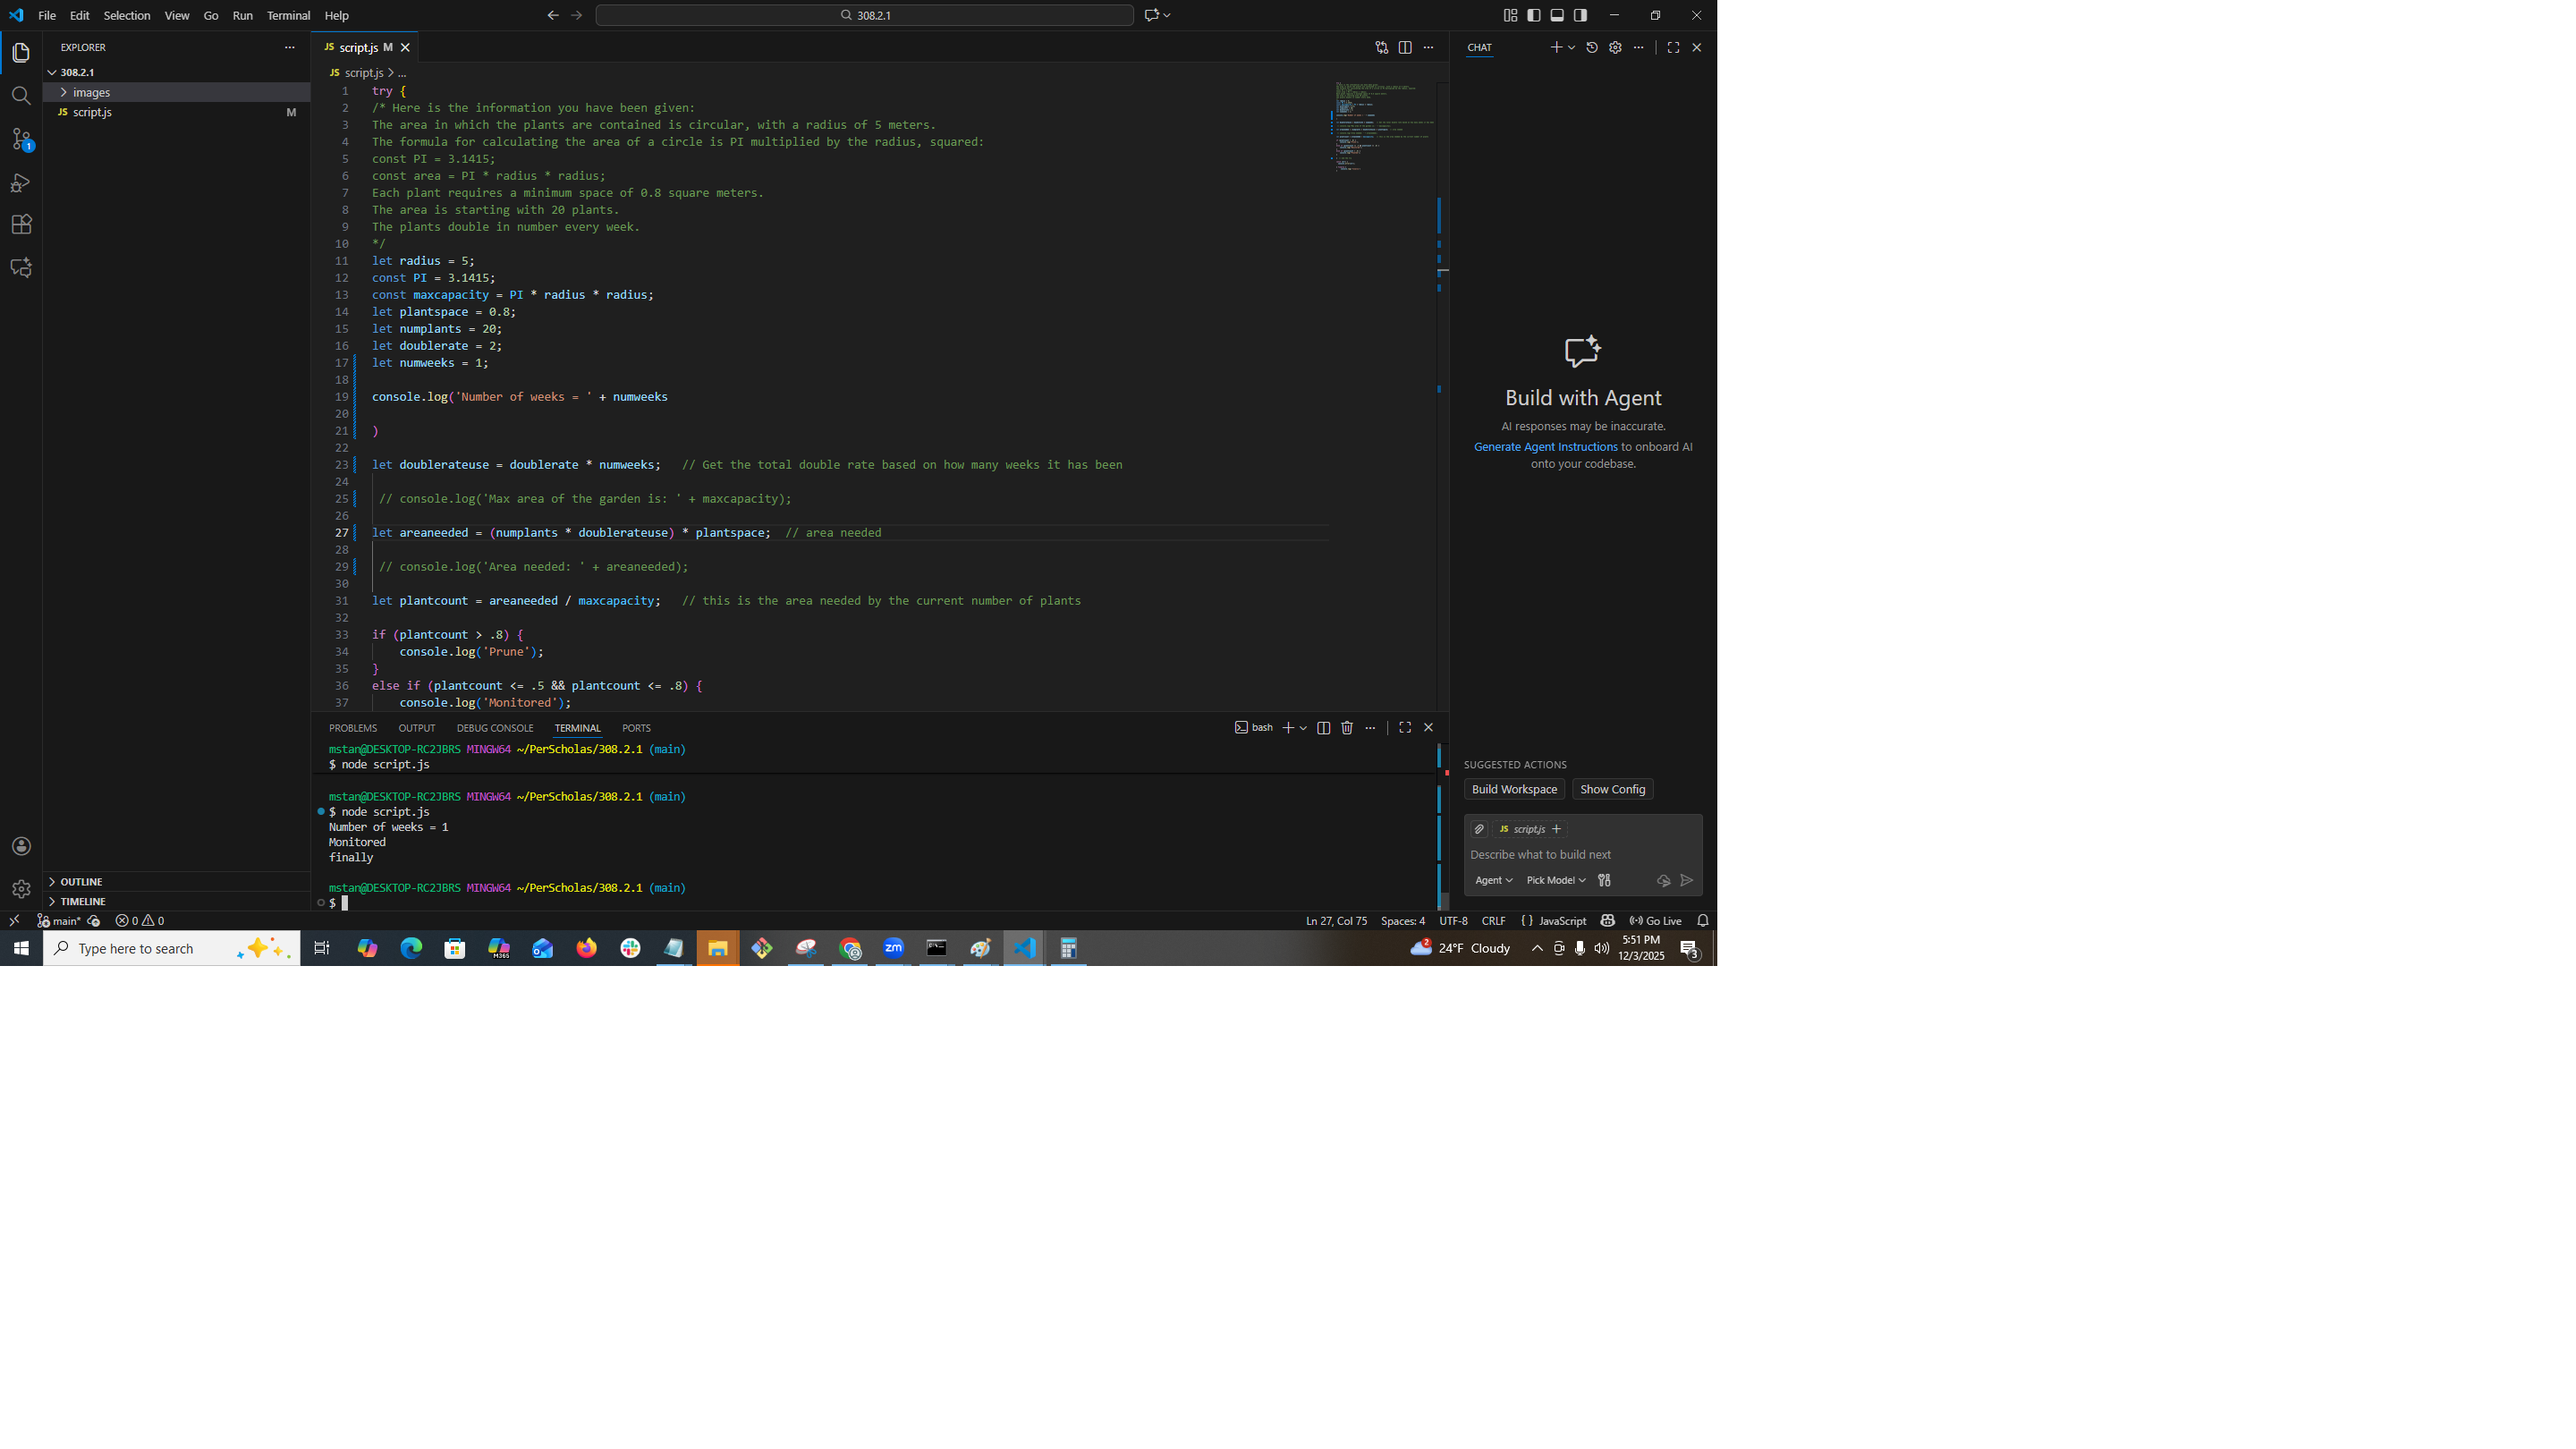
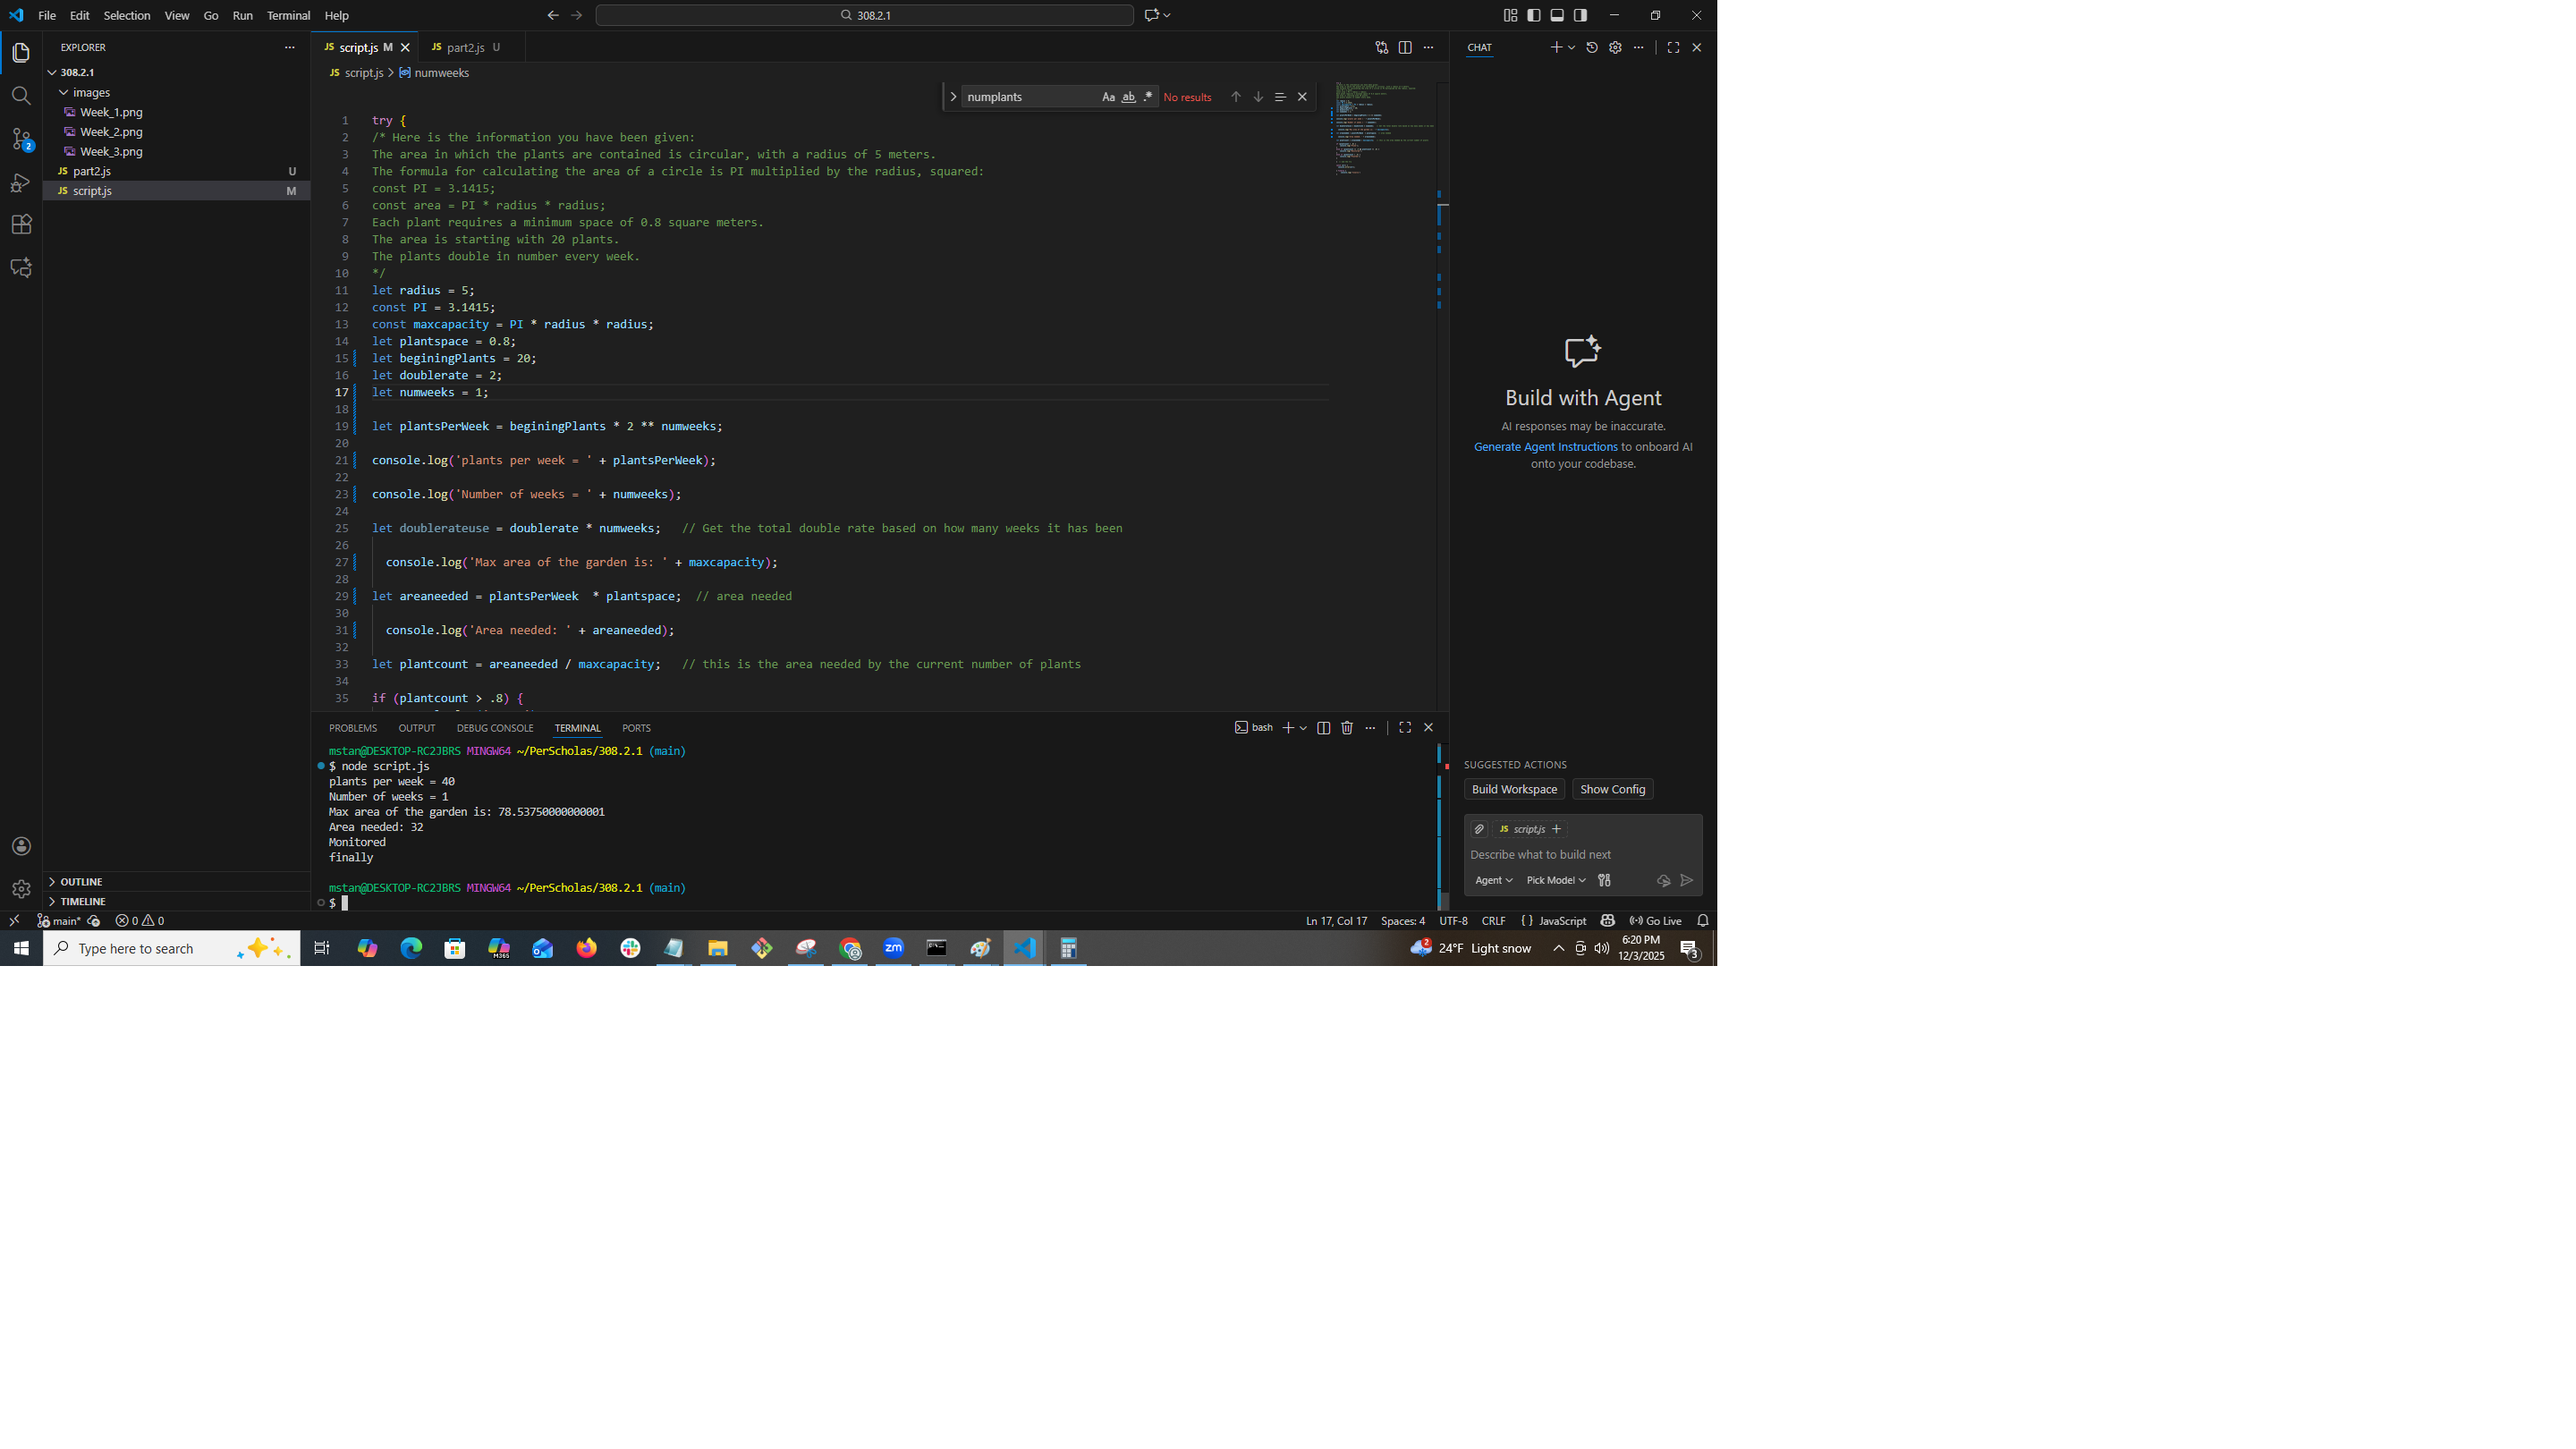
Done with part 1. Again.

diff --git a/part2.js b/part2.js
@@ -12,23 +12,21 @@ let radius = 5;
 const PI = 3.1415;
 const maxcapacity = PI * radius * radius;
 let plantspace = 0.8;
-let beginingPlants = 20;
+let numplants = 100;
 let doublerate = 2;
 let numweeks = 3;
 
-let plantsPerWeek = beginingPlants * 2 ** numweeks;
+console.log('Number of weeks = ' + numweeks
 
-console.log('plants per week = ' + plantsPerWeek);
-
-console.log('Number of weeks = ' + numweeks);
+)
 
 let doublerateuse = doublerate * numweeks;   // Get the total double rate based on how many weeks it has been
 
-  console.log('Max area of the garden is: ' + maxcapacity);
+ // console.log('Max area of the garden is: ' + maxcapacity);
 
-let areaneeded = plantsPerWeek  * plantspace;  // area needed
+let areaneeded = (numplants * doublerateuse) * plantspace;  // area needed
 
-  console.log('Area needed: ' + areaneeded);
+ // console.log('Area needed: ' + areaneeded);
 
 let plantcount = areaneeded / maxcapacity;   // this is the area needed by the current number of plants
 
